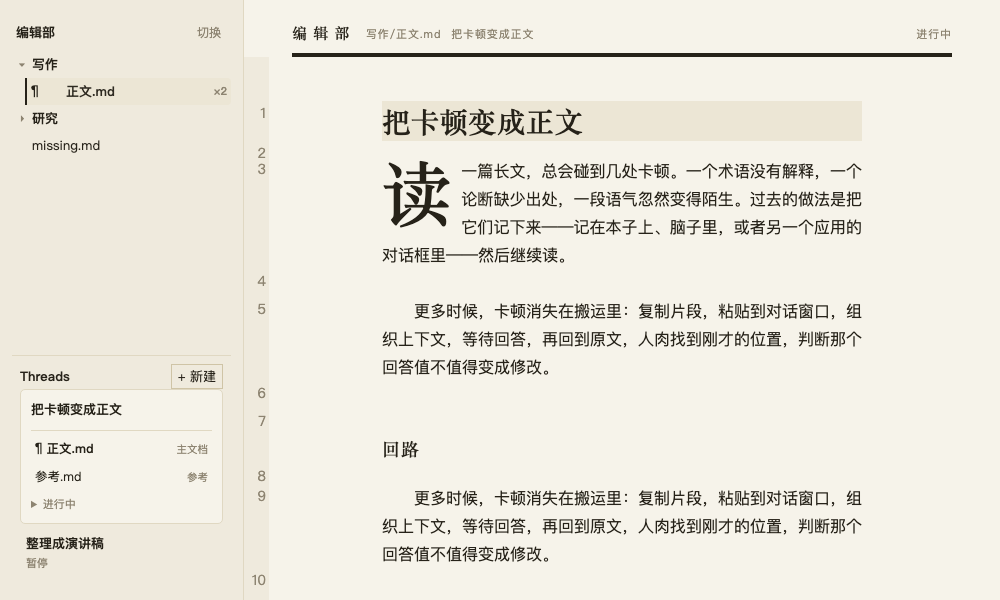
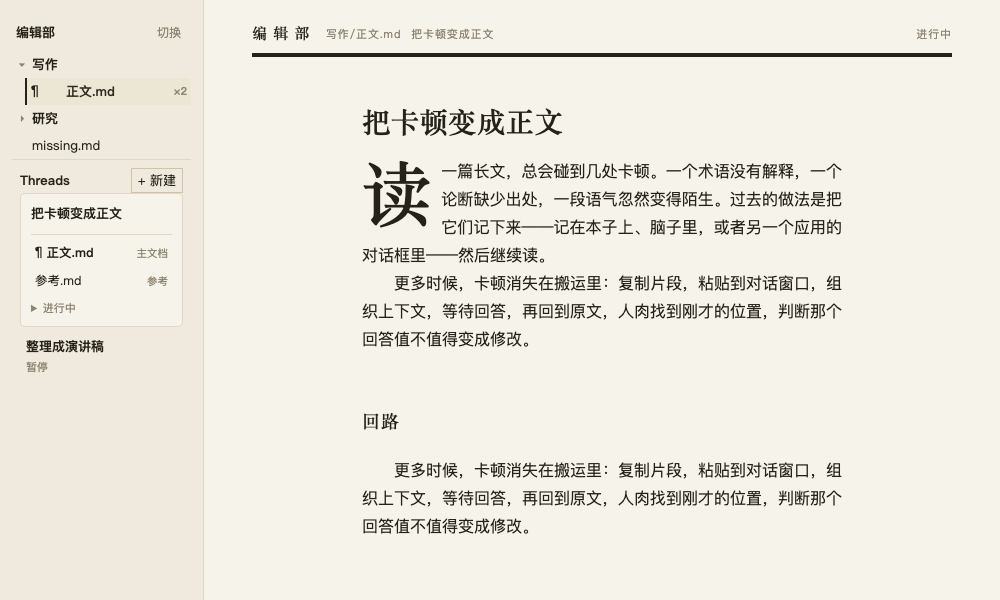
test: verify final integrated parity and approved reading baselines

diff --git a/docs/design-parity-contract/evidence/index.html b/docs/design-parity-contract/evidence/index.html
@@ -1,1 +1,1 @@
-<!doctype html><html lang="zh"><meta charset="utf-8"><title>M62 原型生产对照</title><style>body{font:14px system-ui;margin:16px}div{display:flex;gap:16px}figure{margin:0;width:50%}img{width:100%;border:1px solid #777}h2{margin-top:32px}</style><h1>M62 原型生产对照，未通过验收</h1><p>截图不是基线；几何失败保持红。左原型，右生产。</p><h2>parity-原型对照-dark-1000x600-chromium</h2><div><figure><figcaption>冻结原型，同fixture</figcaption><img src="parity-原型对照-dark-1000x600-chromium-prototype.png"></figure><figure><figcaption>生产 Chromium + IPC stub</figcaption><img src="parity-原型对照-dark-1000x600-chromium-production.png"></figure></div><h2>parity-原型对照-dark-1200x700-chromium</h2><div><figure><figcaption>冻结原型，同fixture</figcaption><img src="parity-原型对照-dark-1200x700-chromium-prototype.png"></figure><figure><figcaption>生产 Chromium + IPC stub</figcaption><img src="parity-原型对照-dark-1200x700-chromium-production.png"></figure></div><h2>parity-原型对照-dark-1280x900-chromium</h2><div><figure><figcaption>冻结原型，同fixture</figcaption><img src="parity-原型对照-dark-1280x900-chromium-prototype.png"></figure><figure><figcaption>生产 Chromium + IPC stub</figcaption><img src="parity-原型对照-dark-1280x900-chromium-production.png"></figure></div><h2>parity-原型对照-dark-1440x900-chromium</h2><div><figure><figcaption>冻结原型，同fixture</figcaption><img src="parity-原型对照-dark-1440x900-chromium-prototype.png"></figure><figure><figcaption>生产 Chromium + IPC stub</figcaption><img src="parity-原型对照-dark-1440x900-chromium-production.png"></figure></div><h2>parity-原型对照-dark-640x480-chromium</h2><div><figure><figcaption>冻结原型，同fixture</figcaption><img src="parity-原型对照-dark-640x480-chromium-prototype.png"></figure><figure><figcaption>生产 Chromium + IPC stub</figcaption><img src="parity-原型对照-dark-640x480-chromium-production.png"></figure></div><h2>parity-原型对照-eink-1000x600-chromium</h2><div><figure><figcaption>冻结原型，同fixture</figcaption><img src="parity-原型对照-eink-1000x600-chromium-prototype.png"></figure><figure><figcaption>生产 Chromium + IPC stub</figcaption><img src="parity-原型对照-eink-1000x600-chromium-production.png"></figure></div><h2>parity-原型对照-eink-1200x700-chromium</h2><div><figure><figcaption>冻结原型，同fixture</figcaption><img src="parity-原型对照-eink-1200x700-chromium-prototype.png"></figure><figure><figcaption>生产 Chromium + IPC stub</figcaption><img src="parity-原型对照-eink-1200x700-chromium-production.png"></figure></div><h2>parity-原型对照-eink-1280x900-chromium</h2><div><figure><figcaption>冻结原型，同fixture</figcaption><img src="parity-原型对照-eink-1280x900-chromium-prototype.png"></figure><figure><figcaption>生产 Chromium + IPC stub</figcaption><img src="parity-原型对照-eink-1280x900-chromium-production.png"></figure></div><h2>parity-原型对照-eink-1440x900-chromium</h2><div><figure><figcaption>冻结原型，同fixture</figcaption><img src="parity-原型对照-eink-1440x900-chromium-prototype.png"></figure><figure><figcaption>生产 Chromium + IPC stub</figcaption><img src="parity-原型对照-eink-1440x900-chromium-production.png"></figure></div><h2>parity-原型对照-eink-640x480-chromium</h2><div><figure><figcaption>冻结原型，同fixture</figcaption><img src="parity-原型对照-eink-640x480-chromium-prototype.png"></figure><figure><figcaption>生产 Chromium + IPC stub</figcaption><img src="parity-原型对照-eink-640x480-chromium-production.png"></figure></div><h2>parity-原型对照-light-1000x600-chromium</h2><div><figure><figcaption>冻结原型，同fixture</figcaption><img src="parity-原型对照-light-1000x600-chromium-prototype.png"></figure><figure><figcaption>生产 Chromium + IPC stub</figcaption><img src="parity-原型对照-light-1000x600-chromium-production.png"></figure></div><h2>parity-原型对照-light-1200x700-chromium</h2><div><figure><figcaption>冻结原型，同fixture</figcaption><img src="parity-原型对照-light-1200x700-chromium-prototype.png"></figure><figure><figcaption>生产 Chromium + IPC stub</figcaption><img src="parity-原型对照-light-1200x700-chromium-production.png"></figure></div><h2>parity-原型对照-light-1280x900-chromium</h2><div><figure><figcaption>冻结原型，同fixture</figcaption><img src="parity-原型对照-light-1280x900-chromium-prototype.png"></figure><figure><figcaption>生产 Chromium + IPC stub</figcaption><img src="parity-原型对照-light-1280x900-chromium-production.png"></figure></div><h2>parity-原型对照-light-1440x900-chromium</h2><div><figure><figcaption>冻结原型，同fixture</figcaption><img src="parity-原型对照-light-1440x900-chromium-prototype.png"></figure><figure><figcaption>生产 Chromium + IPC stub</figcaption><img src="parity-原型对照-light-1440x900-chromium-production.png"></figure></div><h2>parity-原型对照-light-640x480-chromium</h2><div><figure><figcaption>冻结原型，同fixture</figcaption><img src="parity-原型对照-light-640x480-chromium-prototype.png"></figure><figure><figcaption>生产 Chromium + IPC stub</figcaption><img src="parity-原型对照-light-640x480-chromium-production.png"></figure></div></html>
+<!doctype html><html lang="zh"><meta charset="utf-8"><title>M62 原型生产对照</title><style>body{font:14px system-ui;margin:16px}div{display:flex;gap:16px}figure{margin:0;width:50%}img{width:100%;border:1px solid #777}h2{margin-top:32px}</style><h1>M62 最终组合原型生产对照</h1><p>左原型，右生产。几何与功能结果见契约；保留导航结构差异，截图不代表标准性能通过。</p><h2>parity-原型对照-dark-1000x600-chromium</h2><div><figure><figcaption>冻结原型，同fixture</figcaption><img src="parity-原型对照-dark-1000x600-chromium-prototype.png"></figure><figure><figcaption>生产 Chromium + IPC stub</figcaption><img src="parity-原型对照-dark-1000x600-chromium-production.png"></figure></div><h2>parity-原型对照-dark-1200x700-chromium</h2><div><figure><figcaption>冻结原型，同fixture</figcaption><img src="parity-原型对照-dark-1200x700-chromium-prototype.png"></figure><figure><figcaption>生产 Chromium + IPC stub</figcaption><img src="parity-原型对照-dark-1200x700-chromium-production.png"></figure></div><h2>parity-原型对照-dark-1280x900-chromium</h2><div><figure><figcaption>冻结原型，同fixture</figcaption><img src="parity-原型对照-dark-1280x900-chromium-prototype.png"></figure><figure><figcaption>生产 Chromium + IPC stub</figcaption><img src="parity-原型对照-dark-1280x900-chromium-production.png"></figure></div><h2>parity-原型对照-dark-1440x900-chromium</h2><div><figure><figcaption>冻结原型，同fixture</figcaption><img src="parity-原型对照-dark-1440x900-chromium-prototype.png"></figure><figure><figcaption>生产 Chromium + IPC stub</figcaption><img src="parity-原型对照-dark-1440x900-chromium-production.png"></figure></div><h2>parity-原型对照-dark-640x480-chromium</h2><div><figure><figcaption>冻结原型，同fixture</figcaption><img src="parity-原型对照-dark-640x480-chromium-prototype.png"></figure><figure><figcaption>生产 Chromium + IPC stub</figcaption><img src="parity-原型对照-dark-640x480-chromium-production.png"></figure></div><h2>parity-原型对照-eink-1000x600-chromium</h2><div><figure><figcaption>冻结原型，同fixture</figcaption><img src="parity-原型对照-eink-1000x600-chromium-prototype.png"></figure><figure><figcaption>生产 Chromium + IPC stub</figcaption><img src="parity-原型对照-eink-1000x600-chromium-production.png"></figure></div><h2>parity-原型对照-eink-1200x700-chromium</h2><div><figure><figcaption>冻结原型，同fixture</figcaption><img src="parity-原型对照-eink-1200x700-chromium-prototype.png"></figure><figure><figcaption>生产 Chromium + IPC stub</figcaption><img src="parity-原型对照-eink-1200x700-chromium-production.png"></figure></div><h2>parity-原型对照-eink-1280x900-chromium</h2><div><figure><figcaption>冻结原型，同fixture</figcaption><img src="parity-原型对照-eink-1280x900-chromium-prototype.png"></figure><figure><figcaption>生产 Chromium + IPC stub</figcaption><img src="parity-原型对照-eink-1280x900-chromium-production.png"></figure></div><h2>parity-原型对照-eink-1440x900-chromium</h2><div><figure><figcaption>冻结原型，同fixture</figcaption><img src="parity-原型对照-eink-1440x900-chromium-prototype.png"></figure><figure><figcaption>生产 Chromium + IPC stub</figcaption><img src="parity-原型对照-eink-1440x900-chromium-production.png"></figure></div><h2>parity-原型对照-eink-640x480-chromium</h2><div><figure><figcaption>冻结原型，同fixture</figcaption><img src="parity-原型对照-eink-640x480-chromium-prototype.png"></figure><figure><figcaption>生产 Chromium + IPC stub</figcaption><img src="parity-原型对照-eink-640x480-chromium-production.png"></figure></div><h2>parity-原型对照-light-1000x600-chromium</h2><div><figure><figcaption>冻结原型，同fixture</figcaption><img src="parity-原型对照-light-1000x600-chromium-prototype.png"></figure><figure><figcaption>生产 Chromium + IPC stub</figcaption><img src="parity-原型对照-light-1000x600-chromium-production.png"></figure></div><h2>parity-原型对照-light-1200x700-chromium</h2><div><figure><figcaption>冻结原型，同fixture</figcaption><img src="parity-原型对照-light-1200x700-chromium-prototype.png"></figure><figure><figcaption>生产 Chromium + IPC stub</figcaption><img src="parity-原型对照-light-1200x700-chromium-production.png"></figure></div><h2>parity-原型对照-light-1280x900-chromium</h2><div><figure><figcaption>冻结原型，同fixture</figcaption><img src="parity-原型对照-light-1280x900-chromium-prototype.png"></figure><figure><figcaption>生产 Chromium + IPC stub</figcaption><img src="parity-原型对照-light-1280x900-chromium-production.png"></figure></div><h2>parity-原型对照-light-1440x900-chromium</h2><div><figure><figcaption>冻结原型，同fixture</figcaption><img src="parity-原型对照-light-1440x900-chromium-prototype.png"></figure><figure><figcaption>生产 Chromium + IPC stub</figcaption><img src="parity-原型对照-light-1440x900-chromium-production.png"></figure></div><h2>parity-原型对照-light-640x480-chromium</h2><div><figure><figcaption>冻结原型，同fixture</figcaption><img src="parity-原型对照-light-640x480-chromium-prototype.png"></figure><figure><figcaption>生产 Chromium + IPC stub</figcaption><img src="parity-原型对照-light-640x480-chromium-production.png"></figure></div></html>

diff --git a/tests/visual/scenes/parity-final.spec.ts b/tests/visual/scenes/parity-final.spec.ts
@@ -1,0 +1,32 @@
+import { test, expect } from '@playwright/test';
+import { stubTauri } from './tauri-stub';
+for (const theme of ['light','dark','eink']) test(`最终长文短段只读 ${theme}`, async ({page,context},info)=>{
+  await context.grantPermissions(['clipboard-read','clipboard-write']);
+  const text='# 标题\n\n短段。\n\n紧随下一段。\n\n'+Array.from({length:300},(_,i)=>`第${i}段 长文虚拟化与只读测试。`).join('\n\n');
+  await stubTauri(page,{entries:[{path:'long.md',kind:'file',size:text.length,mtime_ms:0}],files:{'long.md':text}});
+  await page.addInitScript(t=>localStorage.setItem('lumir-theme',t),theme);
+  await page.goto('/');await page.locator('.ft-row[title="long.md"]').click();
+  await expect(page.locator('.cm-content')).toContainText('短段。');
+  const lines=page.locator('.cm-line');
+  const short=lines.filter({hasText:'短段。'});const next=lines.filter({hasText:'紧随下一段。'});
+  const rect=await short.boundingBox();const nrect=await next.boundingBox();
+  expect(nrect!.y).toBeGreaterThan(rect!.y);
+  await page.locator('.cm-content').click();await page.keyboard.press('Meta+a');await page.keyboard.press('Meta+c');
+  expect(await page.evaluate(()=>navigator.clipboard.readText())).toBe(text);
+  await page.keyboard.press('Meta+x');await page.keyboard.press('Meta+v');await page.keyboard.type('NOT_WRITABLE');
+  await page.keyboard.press('Meta+a');await page.keyboard.press('Meta+c');
+  expect(await page.evaluate(()=>navigator.clipboard.readText())).toBe(text);
+  await page.locator('.cm-scroller').evaluate(el=>el.scrollTop=el.scrollHeight);
+  await expect(page.locator('.cm-content')).toContainText('第299段');
+  expect(await lines.count()).toBeLessThan(300);
+  await page.screenshot({path:info.outputPath('long-end.png')});
+});
+
+test('创建后切换失败保持原current并反馈',async({page})=>{
+  const old={vault_id:'fixture-vault',id:'old',title:'原Thread',status:'active' as const,files:[],recent_activity:'0',brief:null};
+  await stubTauri(page,{entries:[],threads:[old],currentThread:'old',failures:{thread_switch:{code:'thread_write',message:'无法保存当前 Thread'}}});
+  await page.goto('/');await page.getByRole('button',{name:'+ 新建'}).click();
+  await page.getByRole('textbox',{name:'Thread 名称'}).fill('新Thread');await page.getByRole('button',{name:'创建',exact:true}).click();
+  await expect(page.locator('.lumir-toast')).toContainText('无法保存当前 Thread');
+  await expect(page.locator('.thread-card.is-current .thread-select')).toContainText('原Thread');
+});

diff --git a/tests/visual/scenes/parity.spec.ts b/tests/visual/scenes/parity.spec.ts
@@ -84,7 +84,13 @@ test("Thread IPC 成功与失败反馈", async ({ page }) => {
   await page.getByRole("button", { name: "+ 新建" }).click();
   await page.getByRole("textbox", { name: "Thread 名称" }).fill("验收 Thread");
   await page.getByRole("button", { name: "创建", exact: true }).click();
-  await expect(page.locator(".lumir-toast")).toContainText("已创建 Thread：验收 Thread");
+  await expect(page.locator(".lumir-toast")).toContainText("已创建并切换到 Thread：验收 Thread");
+  await expect(page.locator('.thread-card.is-current .thread-select')).toContainText('验收 Thread');
+  const persisted = await page.evaluate(async () => {
+    const api = (window as unknown as { __TAURI_INTERNALS__: { invoke: (command: string, args: object) => Promise<{ title: string }> } }).__TAURI_INTERNALS__;
+    return api.invoke('thread_current', { vault_id: 'fixture-vault' });
+  });
+  expect(persisted.title).toBe('验收 Thread');
   await page.locator('.ft-row[title="missing.md"]').click();
   await expect(page.locator(".editor-notice")).toContainText("文件不存在：missing.md");
 });

diff --git a/docs/design-parity-contract/README.md b/docs/design-parity-contract/README.md
@@ -1,6 +1,17 @@
 # 原型—生产一致性验收契约（M62）
 
-**结论：73af311 不通过最终验收。** 宽屏正文几何已接近原型，但阅读模式仍有明确视觉差异，窄窗几何和复制失败，真实新建 Thread 当前态不能重启恢复；本地内存原始值218.50MB高于200MB，但与指定macos-15 CI的可比性未确认，不据此宣布产品内存回归或通过。未更新任何既有视觉基线或容差。
+**当前结论：最终组合2d853d3的本地标准visual全绿，标准macos15性能仍未验证；不自动归档。** 已rebase M63/M64/ADR，最终标准 `scripts/visual/run.sh` 不带ignore-snapshots：42项通过。build、Rust fmt/clippy/test、隔离release、隔离脚本自验通过。以下73af311与4565aed章节是历史结果，以本节为当前状态。
+
+## 最终组合证据（2d853d3）
+
+- [最终paired gallery](evidence/index.html)：3主题×5视口、同正文/导航/Thread fixture，15项几何断言通过。实际观察了最终dark配对及真实WK正文，确认行号、activeLine底色、空段距已去除。剩余导航差异：原型目录kicker、footer，生产vault标题、切换/新建按钮及Thread状态操作；不宣称逐像素相同。
+- 标准visual42项包括复制2路径、短段/code切换、三主题300段长文全选复制、CmdX/V/输入后源文不变、长文滚到底且渲染行数小于300、深目录9组合、Thread切换失败保留原current/错误提示。短段只断言下一段纵坐标更大；精细float避让依据用户确认后的82adf2b reviewer真实WK三主题宽窄多样本复验，不夸称此断言单独证明dropcap安全。
+- toast用批准文案“已创建并切换到 Thread”，并断言UI当前卡及thread_current读回；stub不是后端。最终唯一run实际WK92969打开200段文件、创建Thread→退出；93057重启恢复相同current，三阶段脱敏JSON见 [final-combined](evidence/final-combined/)，两进程均正常退出。
+- 用户已物理确认正式原生源码复制、全选/部分高亮、CmdX/V只读符合预期；这是已确认事实，不再列为未验证。已知IME/drop未测单列，不扩大本轮承诺。
+- 仅更新3张既有基线：app-main/filetree-open/wikilink-states。依据冻结原型及最终paired确认，变化来自已批准的正文居中、阅读gutter/activeLine去除、段距与导航分区修复；没有改容差或跳过断言。更新后再次完整受保护runner42/42。完整日志在final-combined/final-standard.log。
+- M65原始218.50/ABBA与限定解释保留。macos15仍缺最终SHA正式负载证据；perf.yml裸cargo release缺custom-protocol（Cargo.toml无default且显式定义feature），已TowerFinding报告最小修法加feature，未擅改工作流。需要授权发布feat/parityacceptance62并在正确负载工作流dispatch最终ref；本轮未push/dispatch。
+
+节点2准备状态：本地功能/visual与用户原生确认已具备；剩余标准性能、导航剩余差异裁决、独立review确切tip。未经用户确认不archive。
 
 ## 4565aed 合入后的补充验证
 
